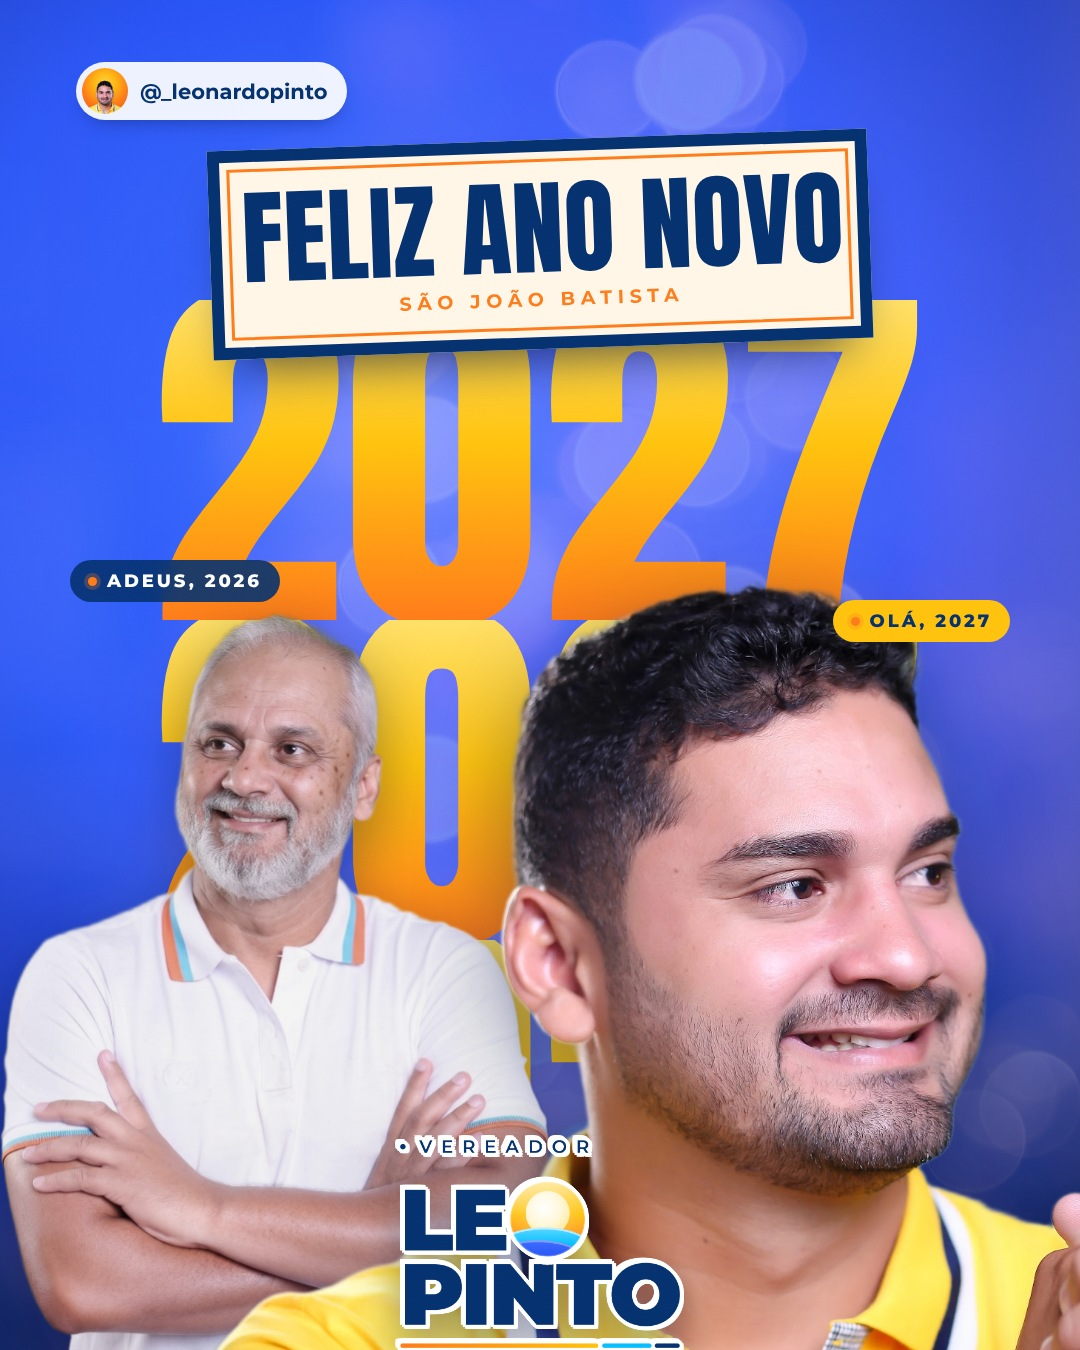
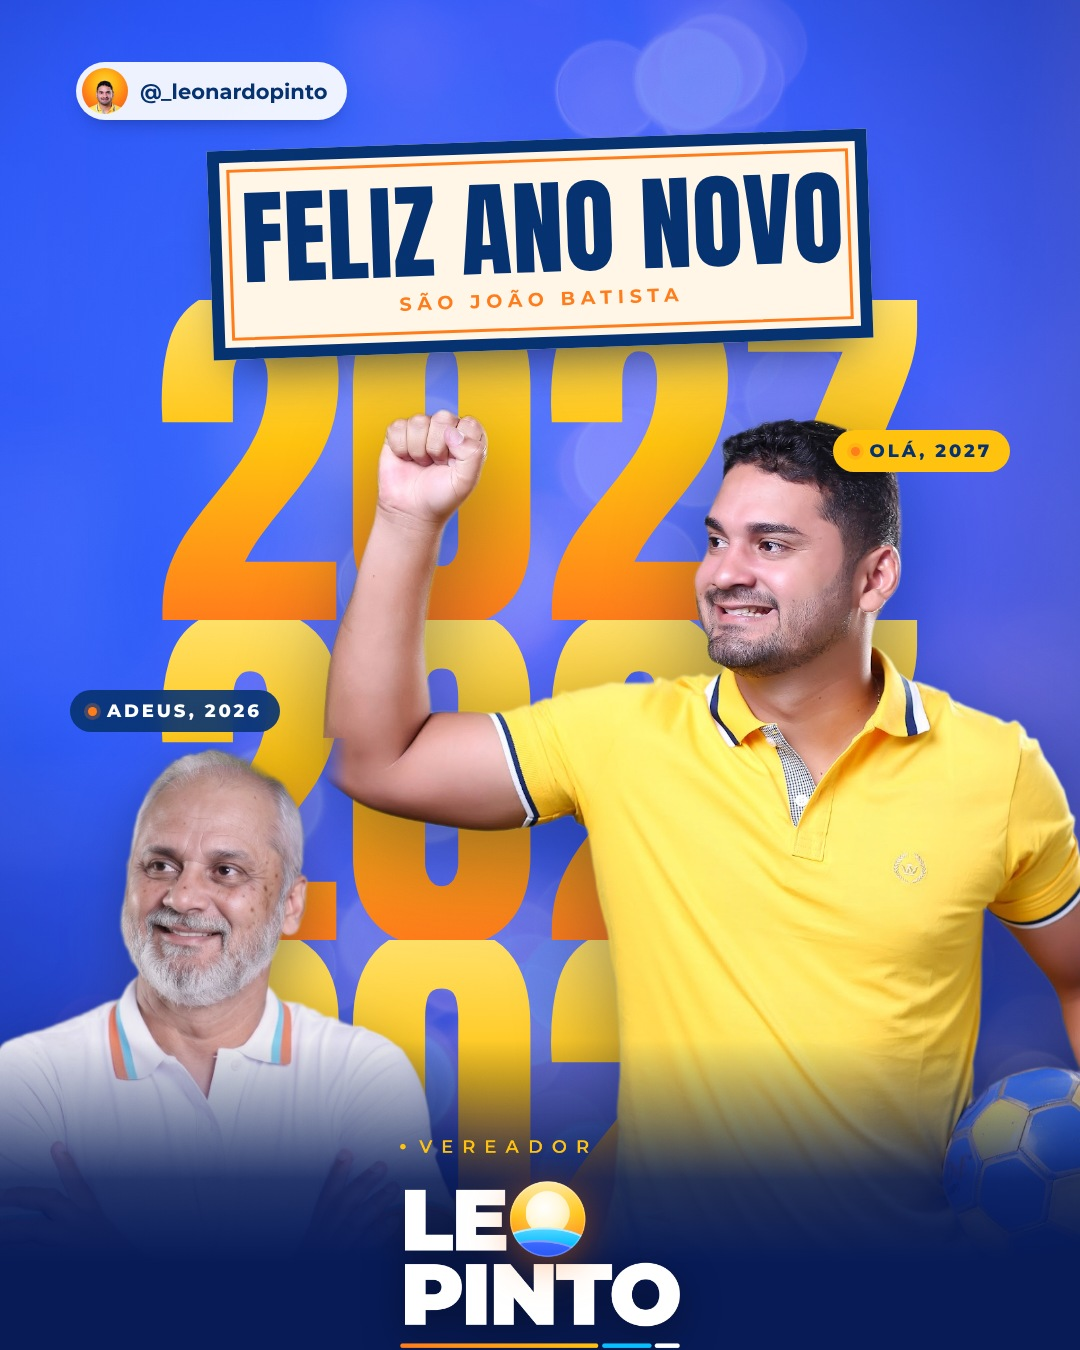
Leo Pinto: 01/01 com o Leo novo mais alto e com mais corpo (foto 20), velho mais baixo (conta Lindson)
Claude-Session: https://claude.ai/code/session_01EzoTfxmLAapRz57Gc77LRF

diff --git a/agencia/clientes/leo-pinto/instagram-v14-datas/gerar9.py b/agencia/clientes/leo-pinto/instagram-v14-datas/gerar9.py
@@ -93,16 +93,17 @@ P.append(('p5-31-12', AMARELO, f"""
 <div class="a" style="left:0;width:1080px;top:1100px;text-align:center"><span class="K" style="font-size:50px;color:#fff;text-shadow:0 4px 16px rgba(120,40,0,.4)">comenta o número aqui embaixo</span></div>"""))
 # 6 · 01/01 · AZUL · FOTO ×2 · cópia do modelo "CONTRATE · DEZEMBRO" enviado pelo Lindson (03/11, Designi): palavra repetida em pé atrás, placa emoldurada
 #   com o título no centro, duas pessoas lado a lado na frente, logo embaixo no centro. Leo "velho" (foto 30 envelhecida pelo Lindson, espelhada) olhando
-#   para 2026 e Leo "novo" (foto 19 espelhada) NA FRENTE e MAIOR olhando para 2027, Leo velho atrás e menor (o ano que sai): cada um para um lado.
+#   para 2026 e Leo "novo" (foto 20, punho erguido, mais corpo) NA FRENTE, MAIOR e MAIS ALTO olhando para 2027, Leo velho atrás e menor (o ano que sai): cada um para um lado.
 P.append(('p6-01-01', AZUL, f"""<img class="a" src="assets/banco-luzes.jpg" style="inset:0;width:1080px;height:1350px;object-fit:cover;opacity:.35;mix-blend-mode:screen">
 <div class="a" style="left:0;width:1080px;top:300px;text-align:center">{''.join(f'<div class="H" style="font-size:390px;line-height:.82;{GRAD}">2027</div>' for _ in range(3))}</div>
-{foto('leo-30-velho-fino.png', 280, 760, 300, 560, .50, extra='filter:drop-shadow(0 20px 30px rgba(2,12,50,.4)) saturate(.85) brightness(.96)', coberta=('direita',))}
-{foto('leo-19-fino-esp.png', 740, 802, 300, 718, .74)}
+{foto('leo-30-velho-fino.png', 215, 880, 300, 560, .45, extra='filter:drop-shadow(0 20px 30px rgba(2,12,50,.4)) saturate(.85) brightness(.96)', coberta=('direita',))}
+{foto('leo-20-fino.png', 800, 560, 230, 725, .66)}
+<div class="a" style="left:0;top:1040px;width:1080px;height:310px;background:linear-gradient(180deg,rgba(7,26,85,0) 0,rgba(7,26,85,.88) 45%,#071A55 72%)"></div>
 <div class="a" style="left:210px;top:140px;width:660px;transform:rotate(-2deg);background:#FFF6E8;border:12px solid {MAR};outline:3px solid {LAR};outline-offset:-22px;padding:30px 20px 26px;text-align:center;box-shadow:0 30px 50px -24px rgba(2,12,50,.7)">
  {H('Feliz ano novo', 104, MAR, 'line-height:.9')}<div class="L" style="font-size:19px;color:{LAR};margin-top:12px">São João Batista</div></div>
-<div class="a" style="left:70px;top:560px">{CHIP('Adeus, 2026', '#fff', 'rgba(5,49,110,.9)')}</div>
-<div class="a" style="right:70px;top:600px">{CHIP('Olá, 2027', MAR, '#FFC20E')}</div>
-<img class="a" src="assets/logo-marinho-forte.png" style="left:400px;top:1140px;width:280px;filter:drop-shadow(2.5px 0 0 #fff) drop-shadow(-2.5px 0 0 #fff) drop-shadow(0 2.5px 0 #fff) drop-shadow(0 -2.5px 0 #fff) drop-shadow(2px 2px 0 #fff) drop-shadow(-2px -2px 0 #fff) drop-shadow(0 12px 20px rgba(2,12,50,.4))">"""))
+<div class="a" style="left:70px;top:690px">{CHIP('Adeus, 2026', '#fff', 'rgba(5,49,110,.9)')}</div>
+<div class="a" style="right:70px;top:430px">{CHIP('Olá, 2027', MAR, '#FFC20E')}</div>
+<img class="a" src="assets/logo.png" style="left:400px;top:1140px;width:280px;filter:drop-shadow(0 10px 20px rgba(0,0,0,.45))">"""))
 secs = ''.join(f'<section class="f" id="{i}" style="background:{bg}">{c}{ASSINA(bg, i)}<div class="a" style="inset:0;background-image:url(&quot;{GRAO}&quot;);opacity:.10;mix-blend-mode:overlay;pointer-events:none"></div></section>' for i, bg, c in P)
 html = f"""<!doctype html><html><head><meta charset="utf-8">
 <link href="https://fonts.googleapis.com/css2?family=Anton&family=Kaushan+Script&family=Montserrat:wght@600;700;800;900&display=swap" rel="stylesheet">
